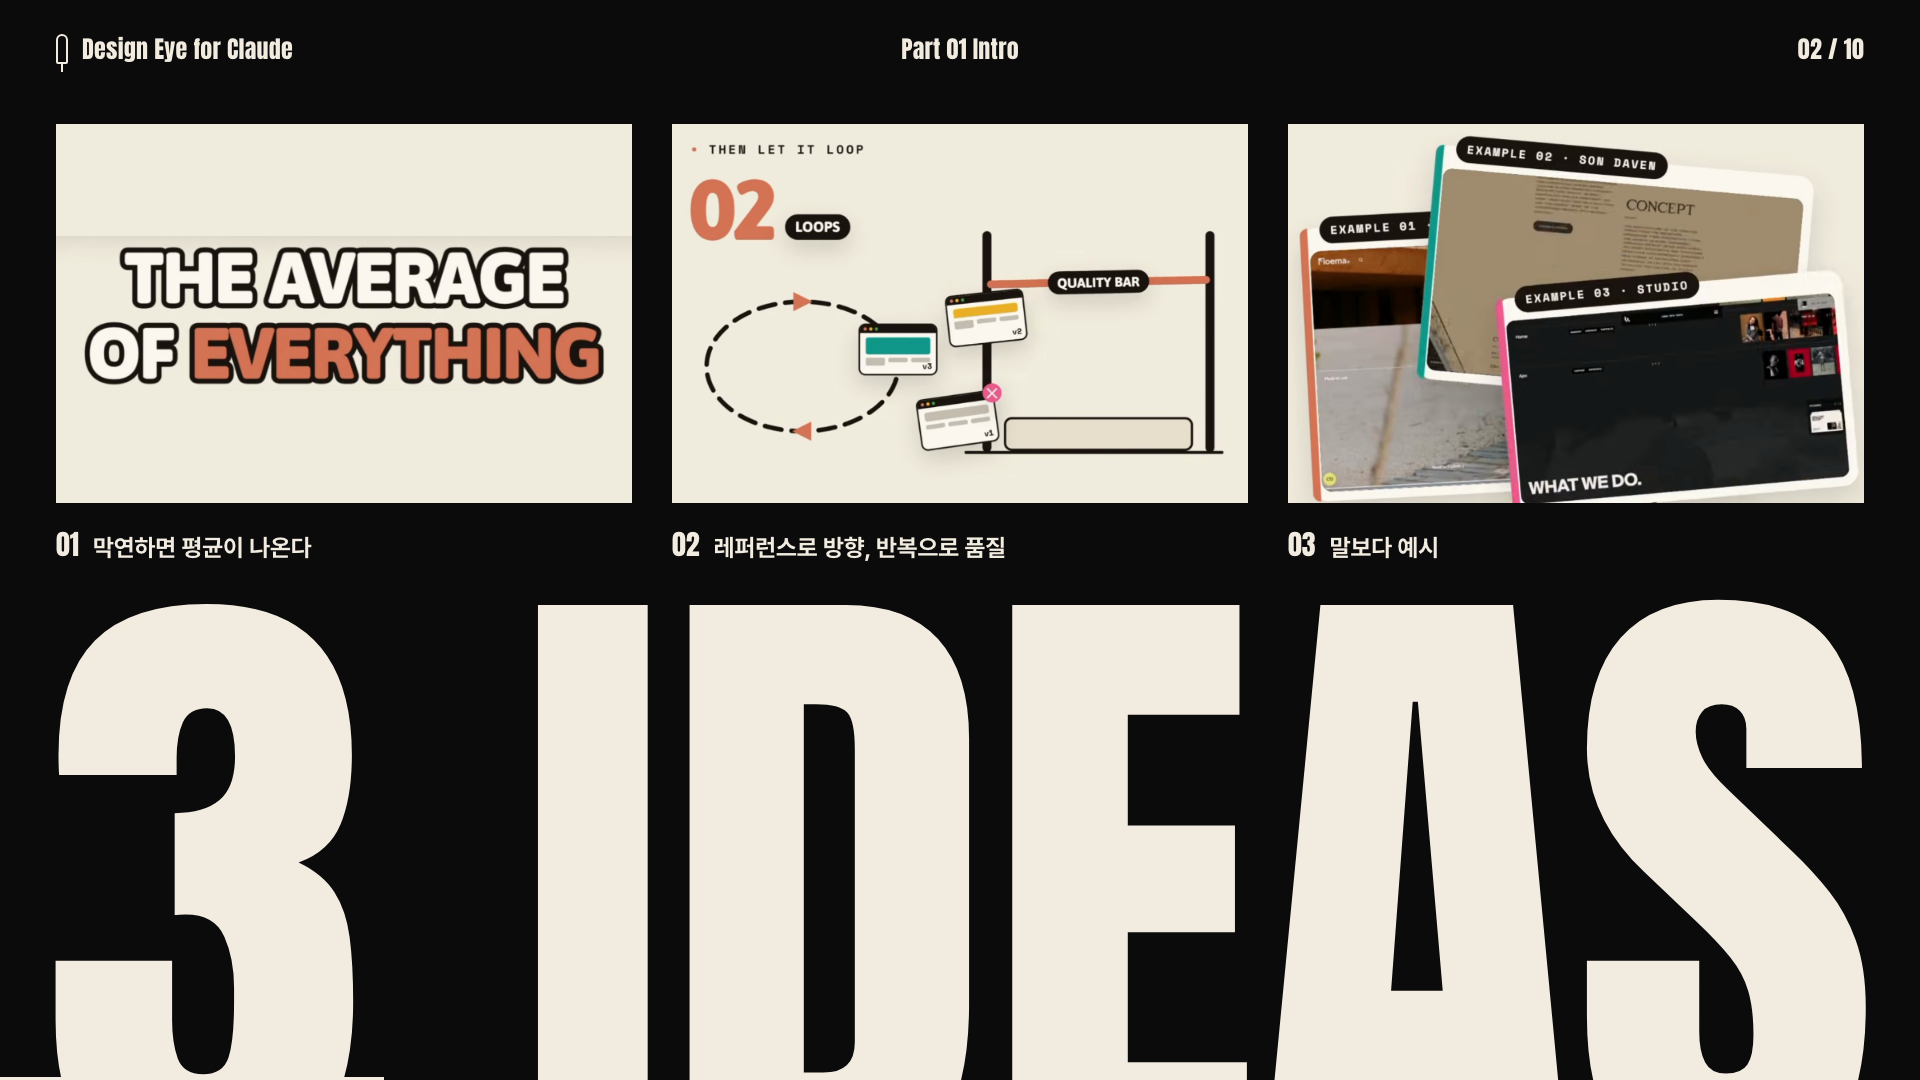
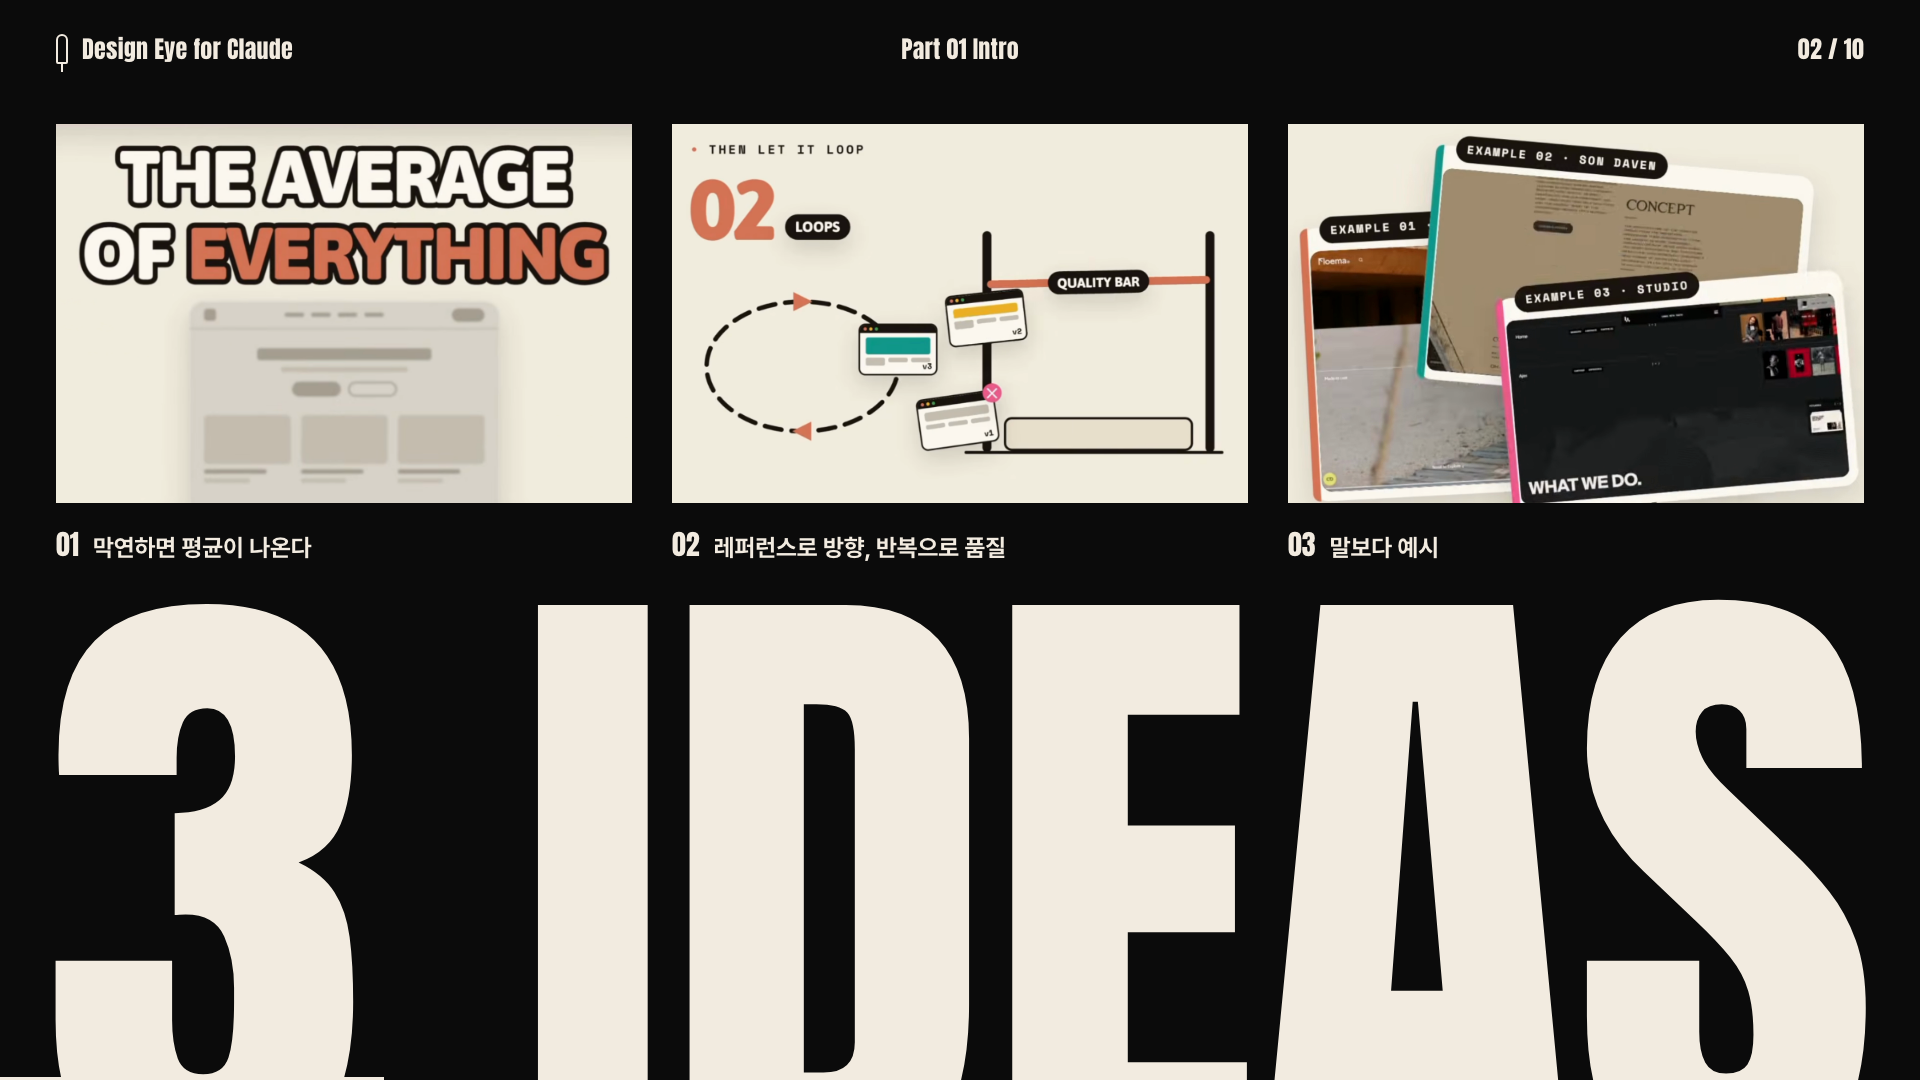
Update intro slide image and generated previews

Changed region(s): [[0.0312, 0.0917, 0.3438, 0.4889]]

diff --git a/deck/_preview/01.html b/deck/_preview/01.html
@@ -26,7 +26,7 @@
   <p class="cap abs" style="left:1126px; top:878px;"><b style="color:var(--ink);">SOUTHSIDE BREWING</b>의 실제 레퍼런스</p>
 </section>
 <section class="slide dark p01"><div class="hdr"><span class="brand"><span class="mark"></span>Design Eye for Claude</span><span>Part 01  Intro</span><span>02 / 10</span></div>
-  <figure class="fig contain abs" style="left:56px; top:124px; width:576px; height:379px; background:#F0ECDD;"><img src="../img/01/05-average-type.png" alt="THE AVERAGE OF EVERYTHING"></figure>
+  <figure class="fig abs" style="left:56px; top:124px; width:576px; height:379px;"><img src="../img/01/05-average-frame-top.png" alt="THE AVERAGE OF EVERYTHING"></figure>
   <figure class="fig abs" style="left:672px; top:124px; width:576px; height:379px;"><img src="../img/01/13-loop-iterating-wide.png" alt="THEN LET IT LOOP, 02 LOOPS"></figure>
   <figure class="fig abs" style="left:1288px; top:124px; width:576px; height:379px;"><img src="../img/01/25-example-cards-top.png" alt="EXAMPLE 01 FLOEMA, 02 SON DAVEN, 03 STUDIO"></figure>
   <div class="abs row" style="left:56px; top:528px; gap:14px; align-items:baseline;"><p class="lbl">01</p><p class="txt"><b>막연하면 평균이 나온다</b></p></div>

diff --git a/deck/parts/01-intro.html b/deck/parts/01-intro.html
@@ -21,7 +21,7 @@
 
 <!-- S2. OUR TRAM: 세 아이디어 미리 보기 -->
 <section class="slide dark p01">
-  <figure class="fig contain abs" style="left:56px; top:124px; width:576px; height:379px; background:#F0ECDD;"><img src="img/01/05-average-type.png" alt="THE AVERAGE OF EVERYTHING"></figure>
+  <figure class="fig abs" style="left:56px; top:124px; width:576px; height:379px;"><img src="img/01/05-average-frame-top.png" alt="THE AVERAGE OF EVERYTHING"></figure>
   <figure class="fig abs" style="left:672px; top:124px; width:576px; height:379px;"><img src="img/01/13-loop-iterating-wide.png" alt="THEN LET IT LOOP, 02 LOOPS"></figure>
   <figure class="fig abs" style="left:1288px; top:124px; width:576px; height:379px;"><img src="img/01/25-example-cards-top.png" alt="EXAMPLE 01 FLOEMA, 02 SON DAVEN, 03 STUDIO"></figure>
   <div class="abs row" style="left:56px; top:528px; gap:14px; align-items:baseline;"><p class="lbl">01</p><p class="txt"><b>막연하면 평균이 나온다</b></p></div>
